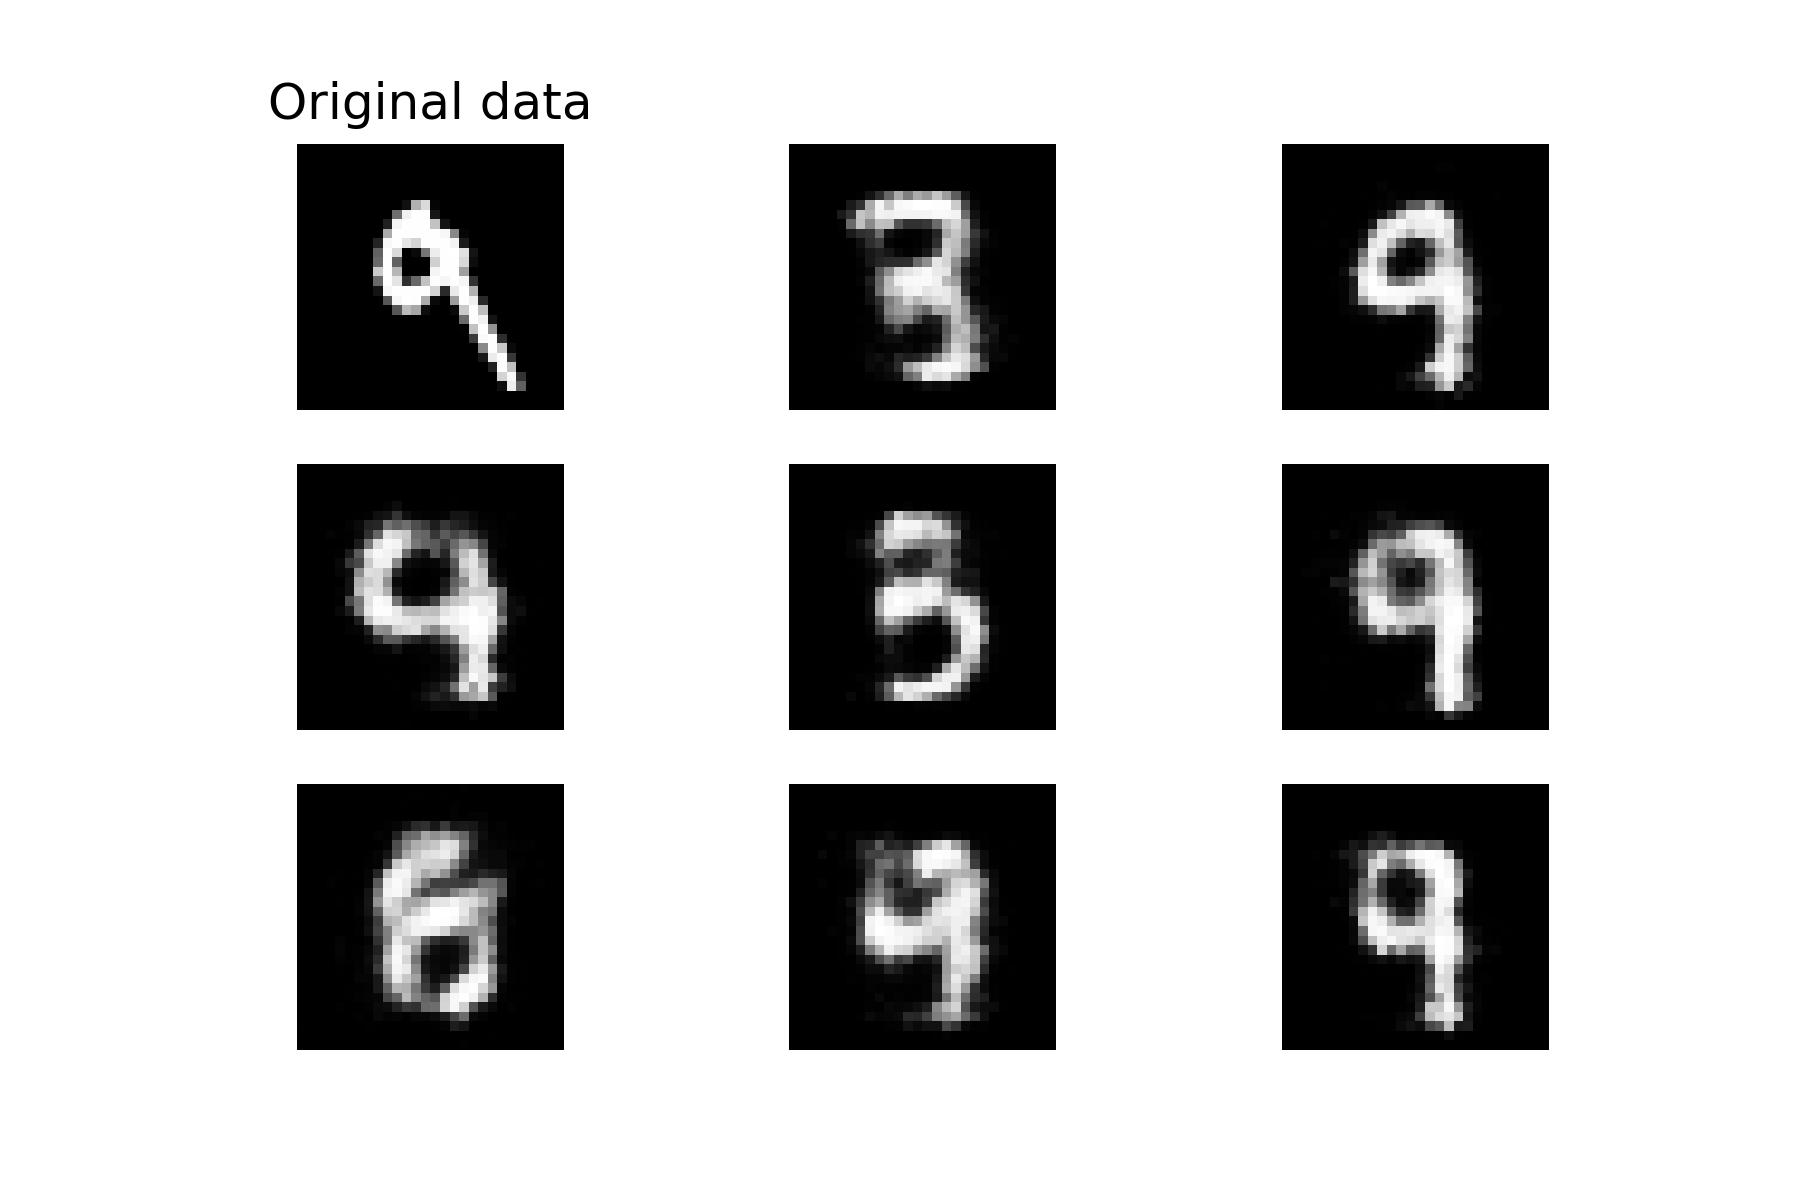
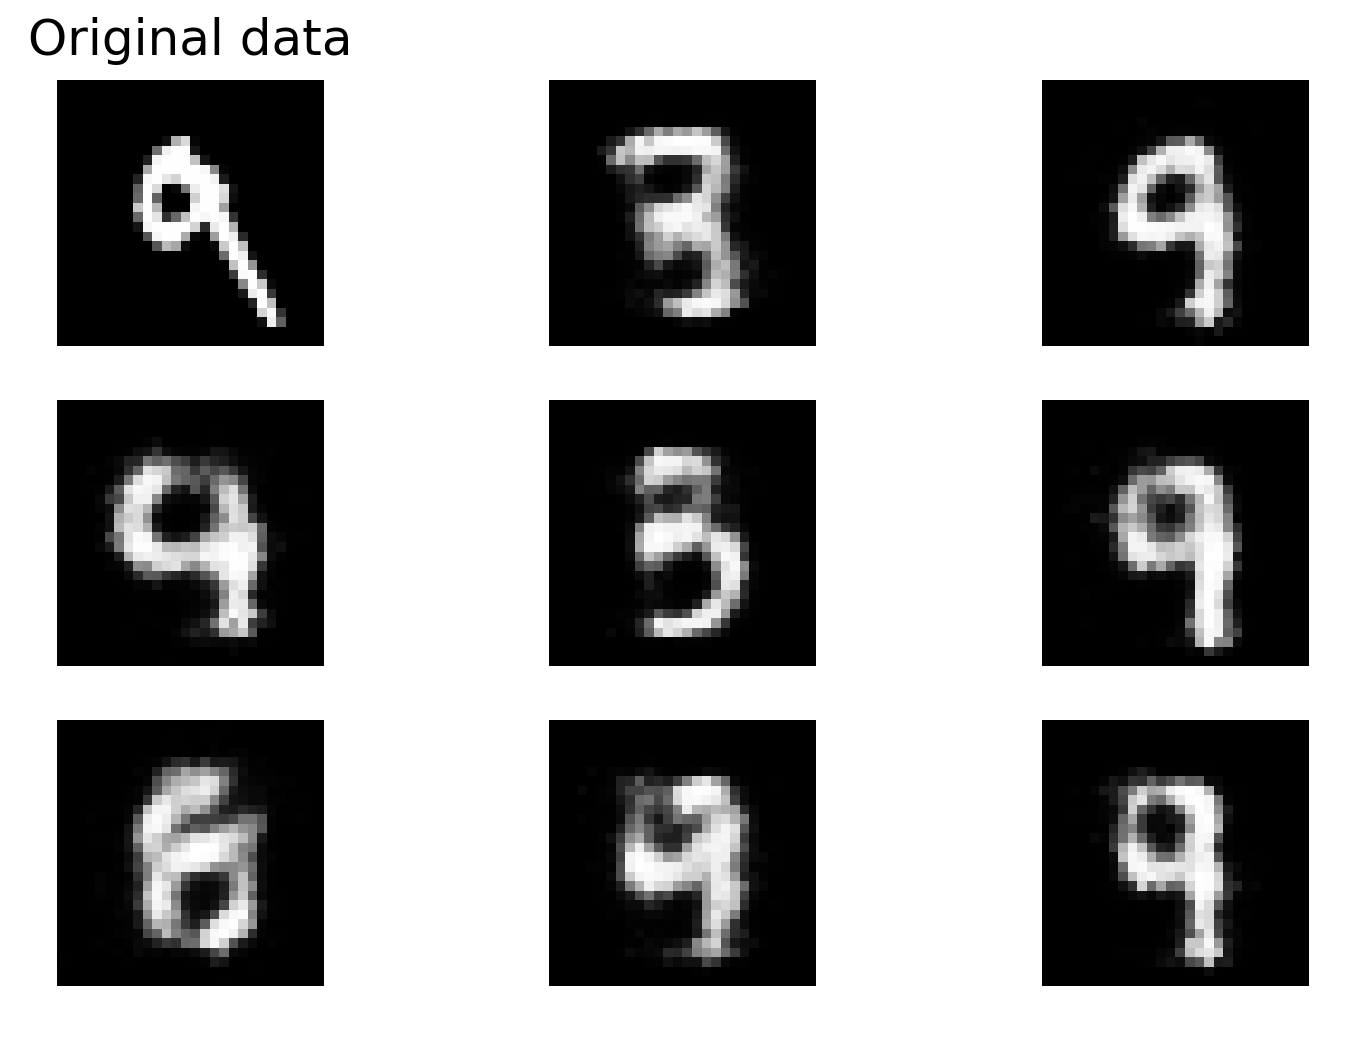
*shankar* resize images

diff --git a/src/train_DBM.py b/src/train_DBM.py
@@ -39,6 +39,8 @@ def getCurrentTime():
 # main command call
 ####################################
 
+# TODO: modify code for AutoGraph execution and progress log within
+
 if __name__ == "__main__":
     parser = argparse.ArgumentParser()
     parser.add_argument("--learning-rate", type=float, default=0.01,
